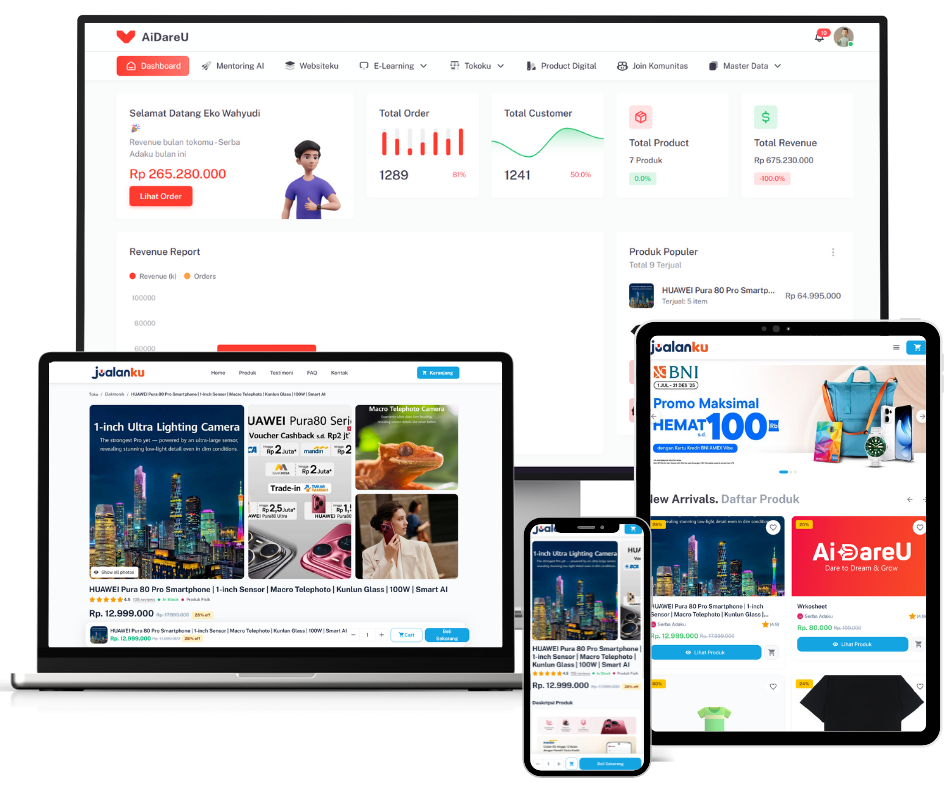
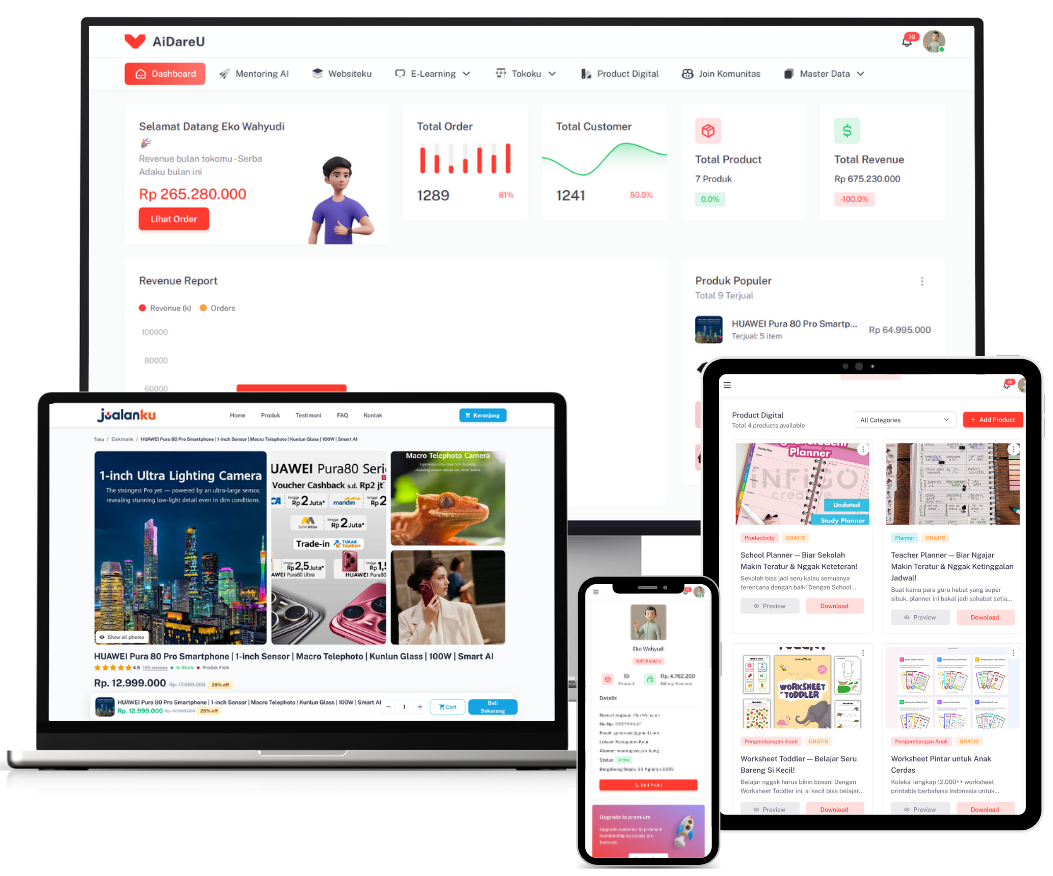
update responsive button

diff --git a/src/views/apps/tokoku/products/list/ProductListTable.tsx b/src/views/apps/tokoku/products/list/ProductListTable.tsx
@@ -783,53 +783,65 @@ const ProductListTable = () => {
   return (
     <Card>
       {/* Header: title kiri, tombol kanan */}
-      <CardHeader
-        title={
-          <div className="flex items-center gap-2">
-            <Typography variant="h5">My Products</Typography>
-            {loading && products.length > 0 && (
-              <CircularProgress size={16} className="text-primary" />
-            )}
-          </div>
-        }
-        action={
-          <div className="flex gap-3">
-            {currentStore?.subdomain && (
-              <Button
-                variant="outlined"
-                color="primary"
-                startIcon={<i className="tabler-external-link" />}
-                component="a"
-                href={`https://${currentStore.subdomain}.aidareu.com`}
-                target="_blank"
-                rel="noopener noreferrer"
-              >
-                Lihat Website
-              </Button>
-            )}
+      <div className="flex flex-wrap items-start justify-between gap-4 p-5 sm:p-6">
+        <div className="flex items-center gap-2">
+          <Typography variant="h5">My Products</Typography>
+          {loading && products.length > 0 && (
+            <CircularProgress size={16} className="text-primary" />
+          )}
+        </div>
+        <div className="flex flex-wrap gap-2 sm:gap-3 justify-end items-center">
+          {currentStore?.subdomain && (
             <Button
               variant="outlined"
-              startIcon={<i className="tabler-refresh" />}
-              onClick={handleManualRefresh}
-              disabled={loading}
+              color="primary"
+              startIcon={<i className="tabler-external-link text-lg" />}
+              component="a"
+              href={`https://${currentStore.subdomain}.aidareu.com`}
+              target="_blank"
+              rel="noopener noreferrer"
+              size="small"
+              className="text-xs sm:text-sm whitespace-nowrap"
             >
-              {loading ? 'Refreshing...' : 'Refresh'}
+              <span className="hidden sm:inline">Lihat Website</span>
+              <span className="sm:hidden">Website</span>
             </Button>
-            <Button
-              color="success"
-              variant="tonal"
-              startIcon={<i className="tabler-file-excel" />}
-              onClick={handleExcelExport}
-              disabled={products.length === 0 || loading}
-            >
-              Export
-            </Button>
-            <Button variant="contained" component={Link} href="/apps/tokoku/products/add" startIcon={<i className="tabler-plus" />}>
-              Add Product
-            </Button>
-          </div>
-        }
-      />
+          )}
+          <Button
+            variant="outlined"
+            startIcon={<i className="tabler-refresh text-lg" />}
+            onClick={handleManualRefresh}
+            disabled={loading}
+            size="small"
+            className="text-xs sm:text-sm whitespace-nowrap"
+          >
+            <span className="hidden sm:inline">{loading ? 'Refreshing...' : 'Refresh'}</span>
+            <span className="sm:hidden">Refresh</span>
+          </Button>
+          <Button
+            color="success"
+            variant="tonal"
+            startIcon={<i className="tabler-file-excel text-lg" />}
+            onClick={handleExcelExport}
+            disabled={products.length === 0 || loading}
+            size="small"
+            className="text-xs sm:text-sm whitespace-nowrap"
+          >
+            Export
+          </Button>
+          <Button
+            variant="contained"
+            component={Link}
+            href="/apps/tokoku/products/add"
+            startIcon={<i className="tabler-plus text-lg" />}
+            size="small"
+            className="text-xs sm:text-sm whitespace-nowrap"
+          >
+            <span className="hidden sm:inline">Add Product</span>
+            <span className="sm:hidden">Add</span>
+          </Button>
+        </div>
+      </div>
 
       <Divider />
 

diff --git a/src/views/apps/products-digital/ProductDigitalHeader.tsx b/src/views/apps/products-digital/ProductDigitalHeader.tsx
@@ -1,15 +1,8 @@
 'use client'
 
 // MUI Imports
-import Card from '@mui/material/Card'
-import CardContent from '@mui/material/CardContent'
 import InputAdornment from '@mui/material/InputAdornment'
 import TextField from '@mui/material/TextField'
-import Typography from '@mui/material/Typography'
-import Button from '@mui/material/Button'
-
-// Hook Imports
-import { useRBAC } from '@/contexts/rbacContext'
 
 type Props = {
   searchValue: string
@@ -20,45 +13,21 @@ const ProductDigitalHeader = (props: Props) => {
   // Props
   const { searchValue, setSearchValue } = props
 
-  // Hooks
-  const { hasRole } = useRBAC()
-
   return (
-    <Card>
-      <CardContent className='flex flex-wrap justify-between items-center gap-4'>
-        <div>
-          <Typography variant='h5' className='mbe-1'>
-            Digital Products Library
-          </Typography>
-          <Typography>Browse and download our collection of digital products</Typography>
-        </div>
-        <div className='flex flex-wrap gap-4 items-center'>
-          <TextField
-            placeholder='Search products...'
-            size='small'
-            value={searchValue}
-            onChange={e => setSearchValue(e.target.value)}
-            className='is-[250px]'
-            InputProps={{
-              startAdornment: (
-                <InputAdornment position='start'>
-                  <i className='tabler-search' />
-                </InputAdornment>
-              )
-            }}
-          />
-          {hasRole('superadmin') && (
-            <Button
-              variant='contained'
-              color='primary'
-              startIcon={<i className='tabler-plus' />}
-            >
-              Add Product
-            </Button>
-          )}
-        </div>
-      </CardContent>
-    </Card>
+    <TextField
+      placeholder='Search products...'
+      size='small'
+      value={searchValue}
+      onChange={e => setSearchValue(e.target.value)}
+      className='is-full sm:is-[250px]'
+      InputProps={{
+        startAdornment: (
+          <InputAdornment position='start'>
+            <i className='tabler-search' />
+          </InputAdornment>
+        )
+      }}
+    />
   )
 }
 

diff --git a/src/views/apps/products-digital/ProductDigitalCard.tsx b/src/views/apps/products-digital/ProductDigitalCard.tsx
@@ -54,6 +54,7 @@ type ChipColorType = {
 type Props = {
   productData?: ProductDigital[]
   searchValue: string
+  searchComponent?: React.ReactNode
 }
 
 const chipColor: { [key: string]: ChipColorType } = {
@@ -73,7 +74,7 @@ const chipColor: { [key: string]: ChipColorType } = {
 
 const ProductDigitalCard = (props: Props) => {
   // Props
-  const { productData, searchValue } = props
+  const { productData, searchValue, searchComponent } = props
 
   // Hooks
   const router = useRouter()
@@ -183,8 +184,9 @@ const ProductDigitalCard = (props: Props) => {
             <Typography variant='h5'>Product Digital</Typography>
             <Typography>Total {data.length} products available</Typography>
           </div>
-          <div className='flex flex-wrap items-center gap-y-4 gap-x-4'>
-            <FormControl fullWidth size='small' className='is-[250px] flex-auto'>
+          <div className='flex flex-wrap items-center gap-y-3 gap-x-3'>
+            {searchComponent}
+            <FormControl size='small' className='is-full sm:is-[200px]'>
               <Select
                 fullWidth
                 id='select-category'
@@ -207,6 +209,7 @@ const ProductDigitalCard = (props: Props) => {
               color='primary'
               startIcon={<i className='tabler-plus' />}
               onClick={handleAddProduct}
+              size='small'
             >
               Add Product
             </Button>)}

diff --git a/src/views/apps/products-digital/index.tsx b/src/views/apps/products-digital/index.tsx
@@ -3,9 +3,6 @@
 // React Imports
 import { useState } from 'react'
 
-// MUI Imports
-import Grid from '@mui/material/Grid2'
-
 // Component Imports
 import ProductDigitalHeader from './ProductDigitalHeader'
 import ProductDigitalCard from './ProductDigitalCard'
@@ -22,14 +19,11 @@ const ProductDigitalList = ({ productData }: Props) => {
   const [searchValue, setSearchValue] = useState('')
 
   return (
-    <Grid container spacing={6}>
-      <Grid size={12}>
-        <ProductDigitalHeader searchValue={searchValue} setSearchValue={setSearchValue} />
-      </Grid>
-      <Grid size={12}>
-        <ProductDigitalCard productData={productData} searchValue={searchValue} />
-      </Grid>
-    </Grid>
+    <ProductDigitalCard
+      productData={productData}
+      searchValue={searchValue}
+      searchComponent={<ProductDigitalHeader searchValue={searchValue} setSearchValue={setSearchValue} />}
+    />
   )
 }
 

diff --git a/src/views/front-pages/landing-page/GetStarted.tsx b/src/views/front-pages/landing-page/GetStarted.tsx
@@ -82,7 +82,7 @@ const GetStarted = ({ mode }: { mode: SystemMode }) => {
             >
               Daftar Gratis!
             </Button>
-            <div className='flex items-center gap-2.5'>
+            {/* <div className='flex items-center gap-2.5'>
               <div className='flex -space-x-2'>
                 <img
                   src='/images/avatars/1.png'
@@ -106,7 +106,7 @@ const GetStarted = ({ mode }: { mode: SystemMode }) => {
                 />
               </div>
               <span className='font-semibold text-xs sm:text-sm text-gray-700 dark:text-gray-300'>500+ UMKM bergabung</span>
-            </div>
+            </div> */}
           </div>
         </div>
         <div className='flex justify-center lg:justify-end items-center pbs-4 lg:pbs-0 z-[1] max-w-full lg:max-w-[50%] order-2'>

diff --git a/src/views/apps/user/view/user-left-overview/UserDetails.tsx b/src/views/apps/user/view/user-left-overview/UserDetails.tsx
@@ -212,7 +212,7 @@ const UserDetails = () => {
                 variant='tonal' 
               />
             </div>
-            <div className='flex items-center justify-around flex-wrap gap-4'>
+            {/* <div className='flex items-center justify-around flex-wrap gap-4'>
               <div className='flex items-center gap-4'>
                 <CustomAvatar variant='rounded' color='primary' skin='light'>
                   <i className='tabler-box' />
@@ -231,7 +231,7 @@ const UserDetails = () => {
                   <Typography>Billing Revenue</Typography>
                 </div>
               </div>
-            </div>
+            </div> */}
           </div>
           <div>
             <Typography variant='h5'>Details</Typography>

diff --git a/src/views/front-pages/landing-page/HeroSection.tsx b/src/views/front-pages/landing-page/HeroSection.tsx
@@ -79,7 +79,7 @@ const HeroSection = ({ mode }: { mode: SystemMode }) => {
           <Typography
             className={classnames('font-extrabold sm:text-[52px] text-4xl mbe-4 leading-tight', styles.heroText)}
           >
-            Platform Website Profesional untuk UMKM Indonesia
+            Platformnya Para Entrepreneur untuk Mulai dan Scale Up Bisnis
           </Typography>
           <Typography className='font-medium text-base sm:text-lg mbe-3' color='text.primary'>
             Jangkau Pelanggan Lebih Luas dengan Website Toko Online Sendiri, Kami siap membantu brand kamu tumbuh di era transformasi digital.

diff --git a/src/views/front-pages/landing-page/ProductStat.tsx b/src/views/front-pages/landing-page/ProductStat.tsx
@@ -47,7 +47,7 @@ const statData: StatData[] = [
     isHover: false
   },
   {
-    title: 'Gratis Selamanya',
+    title: 'Gratis',
     value: '100%',
     svg: <Check color='var(--mui-palette-warning-main)' />,
     color: 'var(--mui-palette-warning-darkerOpacity)',
